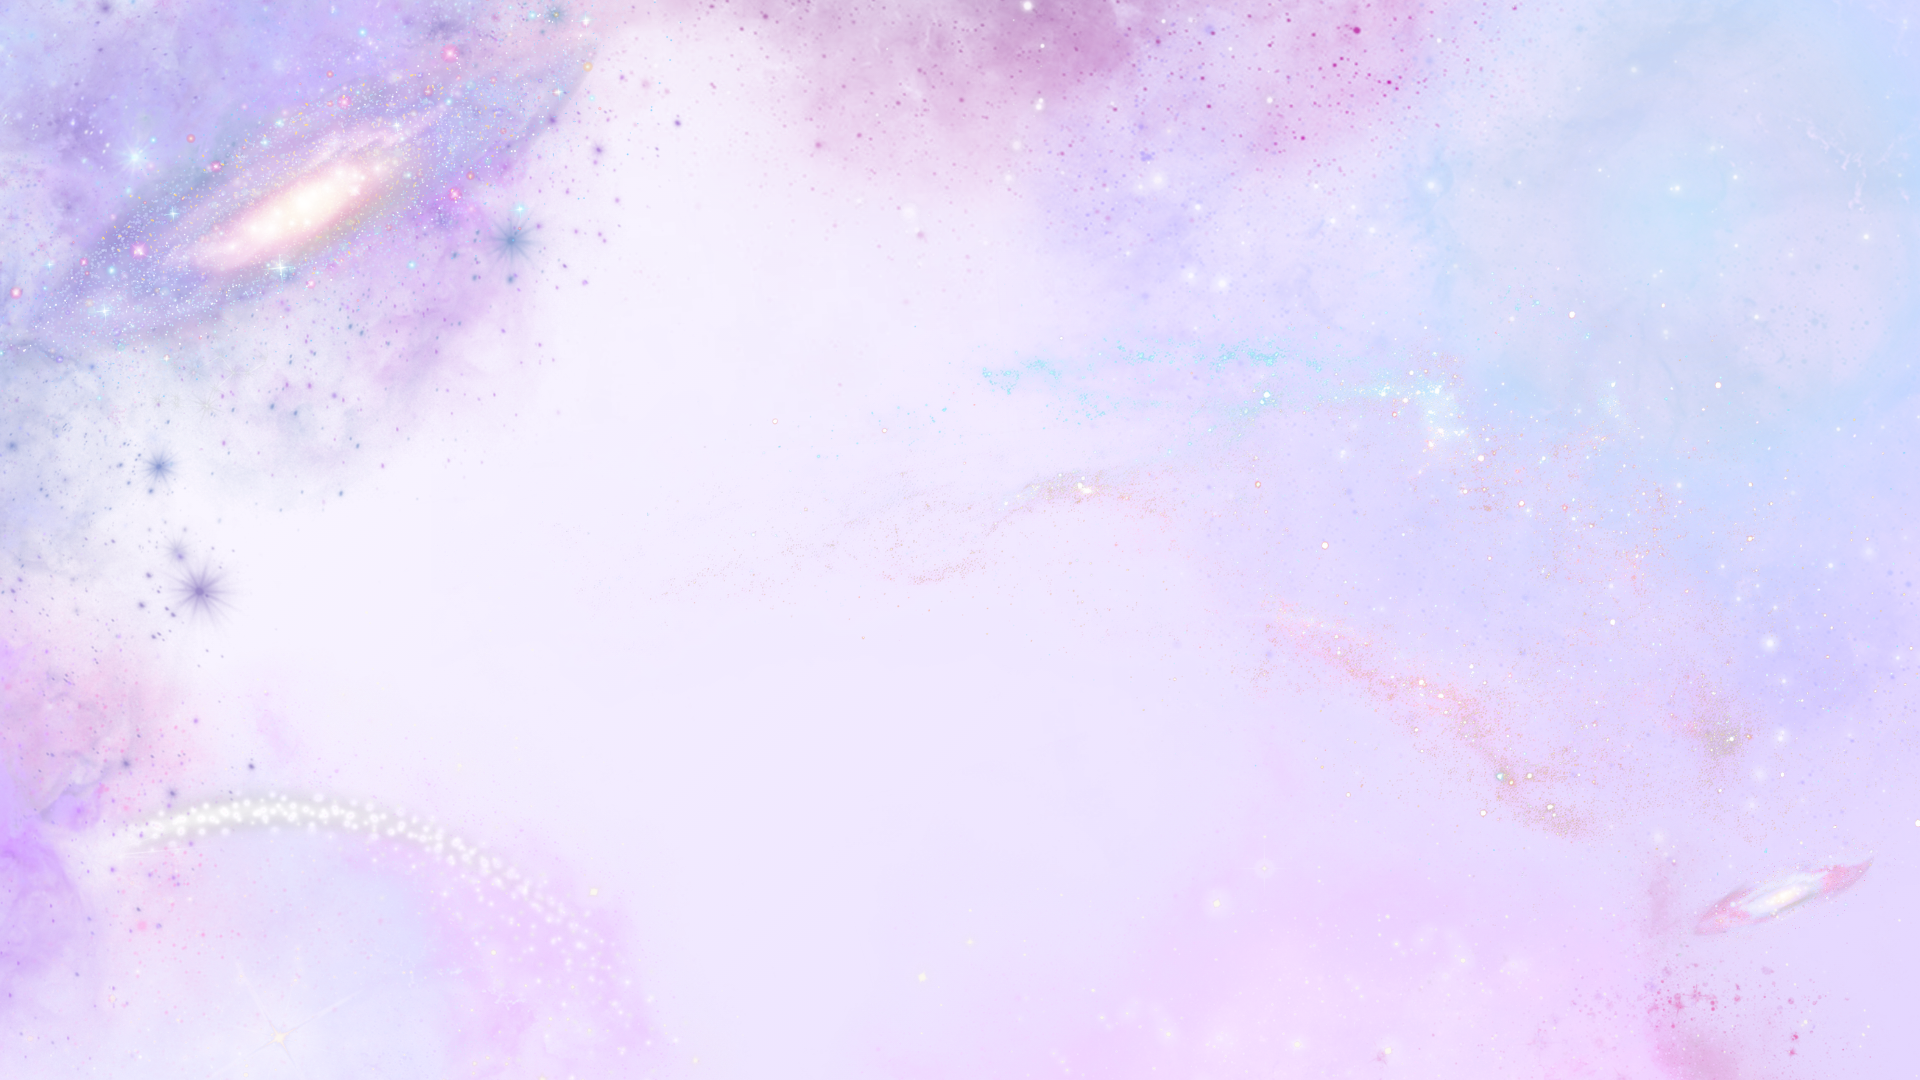
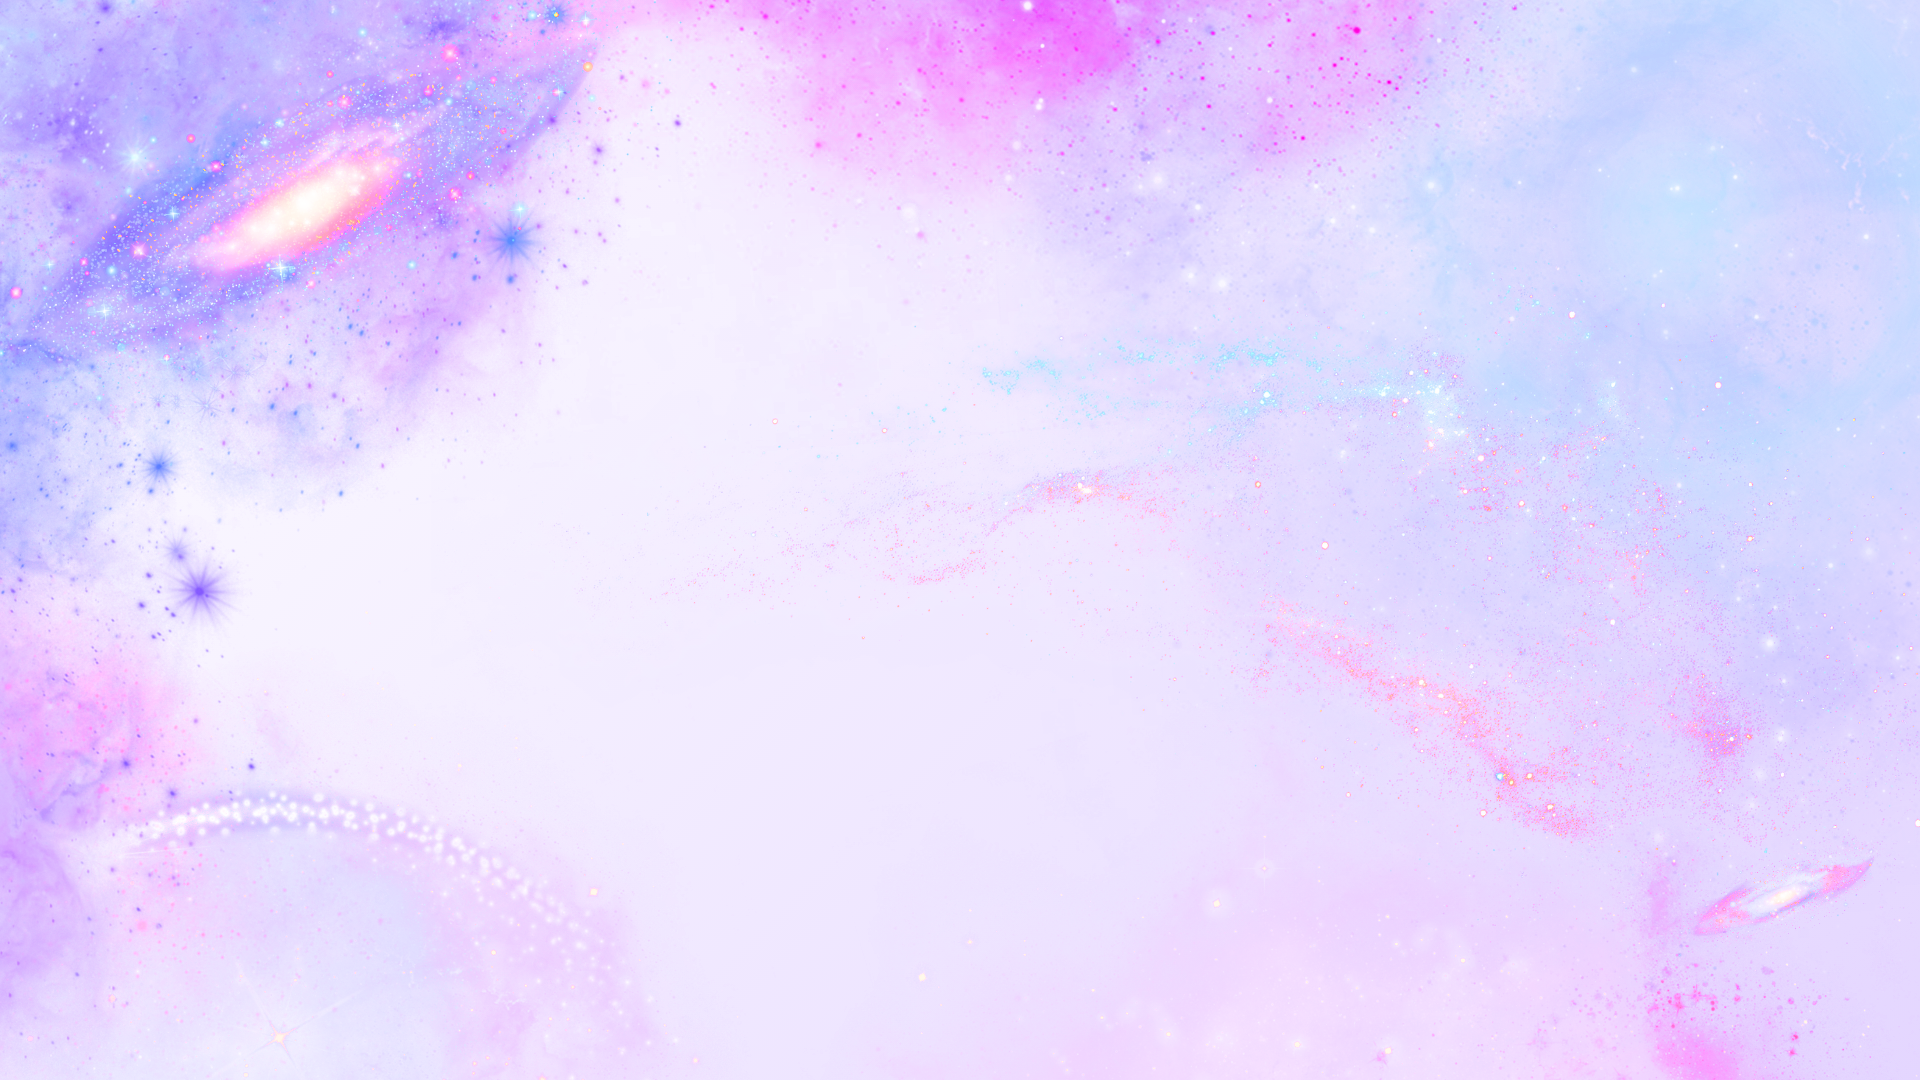
Polish: Welcome Dashboard and Landing Page

diff --git a/renote/src/components/layout/AppSidebar.jsx b/renote/src/components/layout/AppSidebar.jsx
@@ -76,12 +76,12 @@ function AppSidebar() {
       <div
         className={cn(
           "relative z-10 flex min-h-0 w-full flex-col",
-          isCollapsed ? "items-center px-3 py-5" : "p-5"
+          isCollapsed ? "items-center px-3 py-4" : "p-4"
         )}
       >
         <div
           className={cn(
-            "mb-7 flex w-full items-center",
+            "mb-5 flex w-full items-center",
             isCollapsed ? "flex-col gap-3" : "gap-3"
           )}
         >
@@ -118,8 +118,8 @@ function AppSidebar() {
         <nav
           className={
             isCollapsed
-              ? "flex flex-1 flex-col items-center gap-3 overflow-x-hidden overflow-y-auto"
-              : "flex w-full flex-1 flex-col items-stretch gap-4 overflow-x-hidden overflow-y-auto"
+              ? "flex flex-1 flex-col items-center gap-2.5 overflow-x-hidden overflow-y-auto"
+              : "flex w-full flex-1 flex-col items-stretch gap-3 overflow-x-hidden overflow-y-auto"
           }
         >
           {appNavSections.map((section, sectionIndex) => (
@@ -130,7 +130,7 @@ function AppSidebar() {
                 sectionIndex > 0 &&
                   (isCollapsed
                     ? "pt-1.5"
-                    : "border-t border-[#E9B8F2]/45 pt-3 dark:border-[#5D2B74]/45")
+                    : "border-t border-[#E9B8F2]/45 pt-2.5 dark:border-[#5D2B74]/45")
               )}
               key={section.title}
             >
@@ -167,7 +167,7 @@ function AppSidebar() {
                 ) : (
                   <NavLink
                     className={cn(
-                      "flex h-11 w-full items-center justify-start gap-3 rounded-2xl border px-3 py-2.5 text-sm font-medium outline-none transition focus-visible:ring-2 focus-visible:ring-primary/35",
+                      "flex h-10 w-full items-center justify-start gap-2.5 rounded-2xl border px-3 py-2 text-[0.82rem] font-medium outline-none transition focus-visible:ring-2 focus-visible:ring-primary/35",
                       isActive
                         ? "border-transparent bg-primary text-primary-foreground shadow-none"
                         : "border-transparent text-[#5E216F] hover:bg-[#F8D7FF] hover:text-[#9F2CC2] dark:text-[#E7D3EF] dark:hover:bg-white/10 dark:hover:text-white"
@@ -175,7 +175,7 @@ function AppSidebar() {
                     key={item.href}
                     to={item.href}
                   >
-                    <Icon aria-hidden="true" className="size-4 shrink-0" />
+                    <Icon aria-hidden="true" className="size-3.5 shrink-0" />
                     <span className="truncate">{item.label}</span>
                   </NavLink>
                 )

diff --git a/renote/src/components/dashboard/DashboardWelcomeCard.jsx b/renote/src/components/dashboard/DashboardWelcomeCard.jsx
@@ -1,6 +1,11 @@
+import { useUser } from "@clerk/clerk-react"
 import { FileText, FolderOpen, Sparkles } from "lucide-react"
 
 function DashboardWelcomeCard({ actions }) {
+  const { user } = useUser()
+  const displayName =
+    user?.firstName ?? user?.fullName ?? user?.username ?? "there"
+
   return (
     <section className="relative overflow-hidden rounded-3xl border border-primary/20 bg-[linear-gradient(135deg,#D85EDB_0%,#B43BD1_48%,#8B5CF6_100%)] p-6 text-white shadow-lg dark:border-white/10 dark:bg-[linear-gradient(135deg,#24102F_0%,#48146E_52%,#8740A3_100%)] sm:p-7">
       <div className="pointer-events-none absolute inset-x-0 top-0 h-px bg-gradient-to-r from-white/0 via-white/60 to-white/0" />
@@ -20,9 +25,10 @@ function DashboardWelcomeCard({ actions }) {
             <Sparkles className="size-3.5" />
             Workspace overview
           </span>
+
           <div className="space-y-2">
             <h2 className="text-2xl font-semibold tracking-tight sm:text-3xl">
-              Welcome back, ReNote User {"\u{1F44B}"}
+              Welcome, {displayName}!
             </h2>
             <p className="max-w-xl text-sm leading-6 text-white/85 sm:text-base">
               Here's a quick snapshot of your academic workspace.

diff --git a/renote/src/index.css b/renote/src/index.css
@@ -232,7 +232,7 @@
   .hero-bg {
     background-color: var(--renote-purple-50);
     background-image:
-      linear-gradient(120deg, rgb(255 255 255 / 90%), rgb(242 232 255 / 0%)),
+      linear-gradient(120deg, rgb(255 255 255 / 60%), rgb(242 232 255 / 0%)),
       url("./assets/images/hero-light.png");
     background-position: center;
     background-size: cover;
@@ -241,7 +241,7 @@
   .dark .hero-bg {
     background-color: oklch(0.18 0.04 292);
     background-image:
-      linear-gradient(120deg, rgb(24 18 35 / 92%), rgb(65 39 110 / 5%)),
+      linear-gradient(120deg, rgb(24 18 35 / 40%), rgb(65 39 110 / 0%)),
       url("./assets/images/hero-dark.png");
   }
 